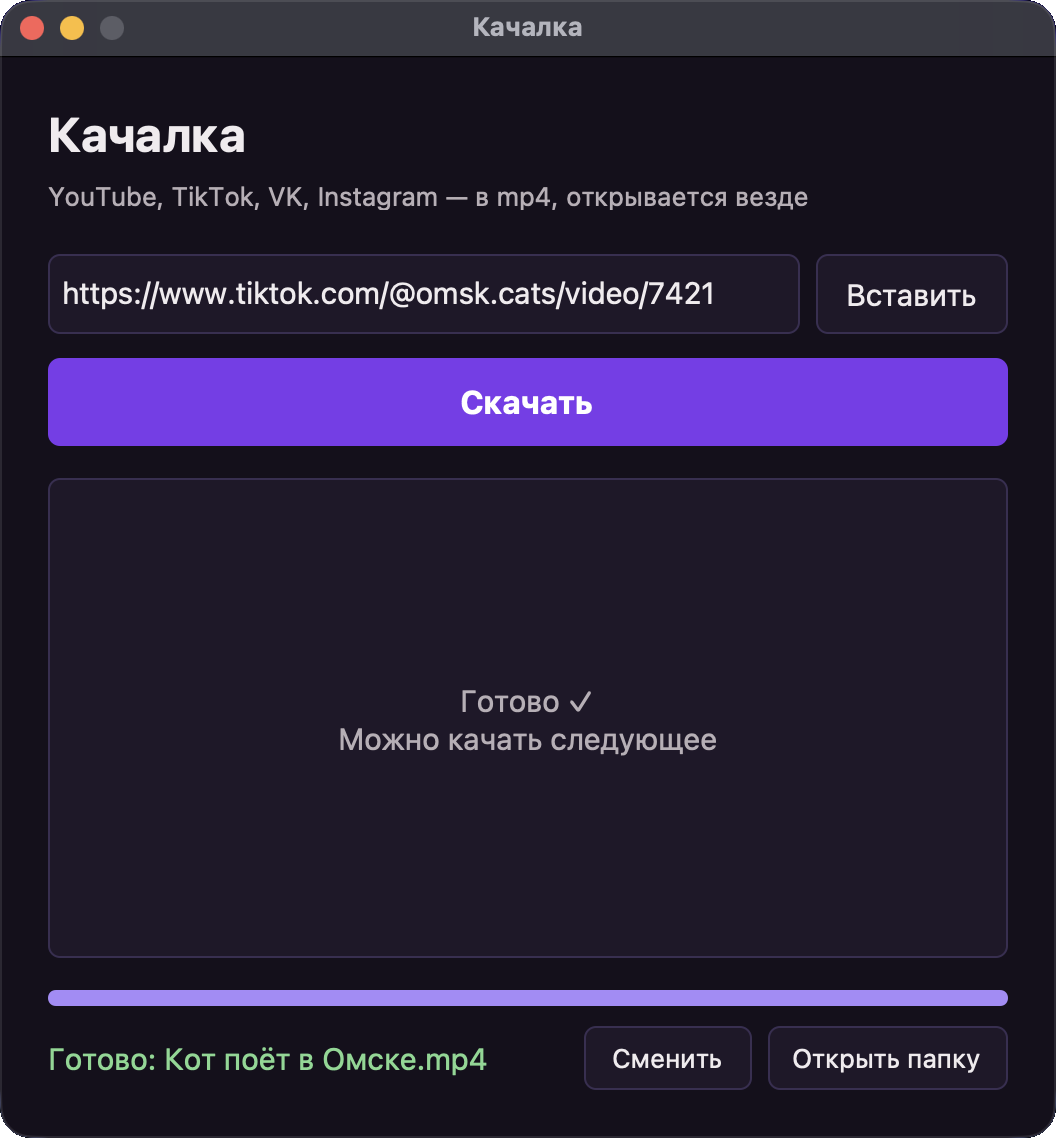
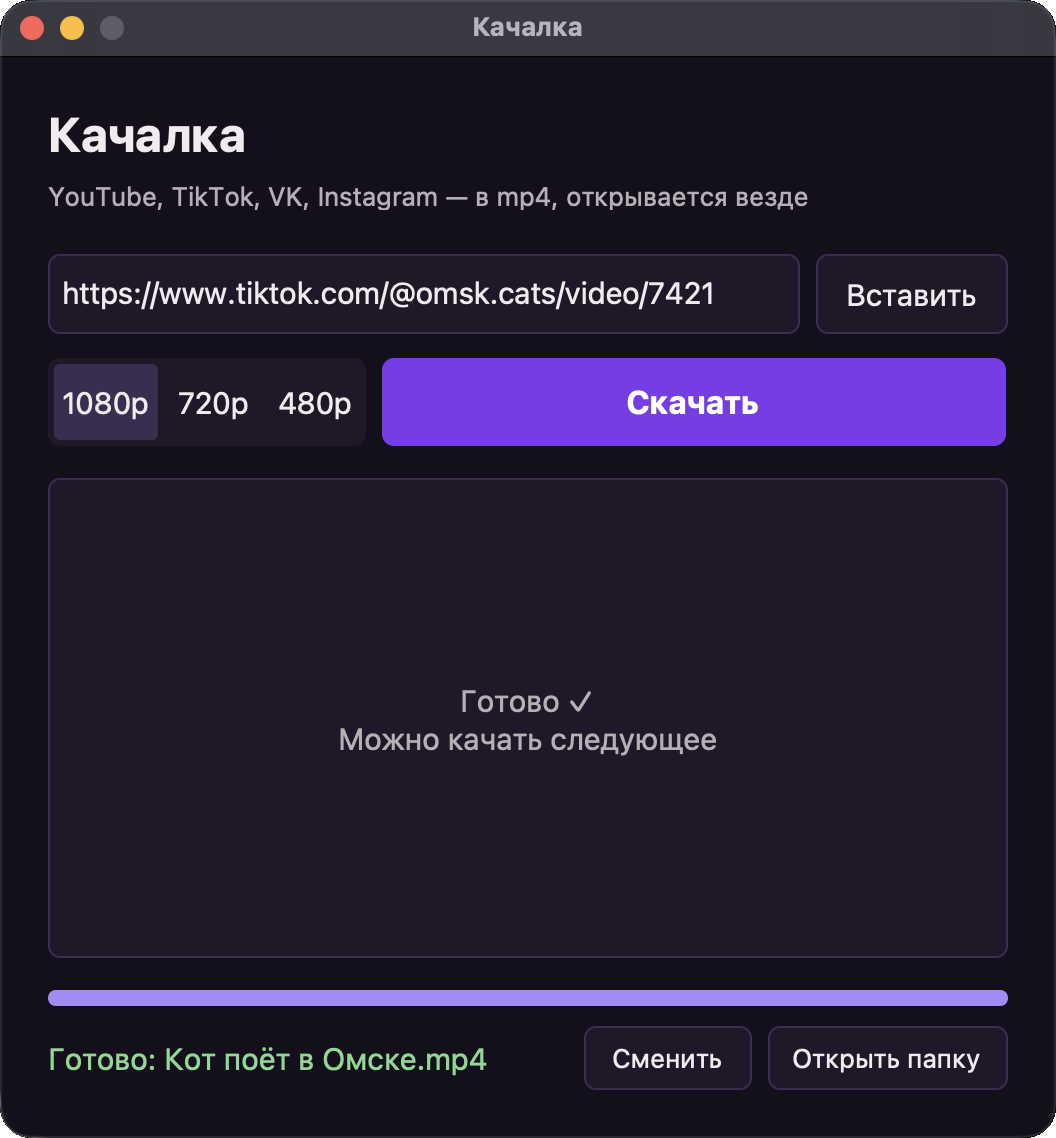
Качалка 1.1: выбор качества и понятные ошибки
Можно выбрать 1080p, 720p или 480p.
Ошибки сети и блокировок теперь объясняются по-русски.

Changed region(s): [[0.0312, 0.3076, 0.375, 0.3998], [0.5938, 0.3383, 0.7188, 0.3691], [0.4375, 0.3383, 0.5625, 0.3691]]

diff --git a/main.py b/main.py
@@ -39,24 +39,28 @@ def desktop_dir():
     return d if d.exists() else Path.home()
 
 
-def load_out_dir():
+QUALITIES = ["1080p", "720p", "480p"]
+
+
+def load_config():
     try:
-        saved = json.loads(CONFIG.read_text("utf-8")).get("out_dir")
-        if saved:
-            return Path(saved)
+        return json.loads(CONFIG.read_text("utf-8"))
+    except Exception:
+        return {}
+
+
+def save_config(**values):
+    cfg = load_config()
+    cfg.update(values)
+    try:
+        CONFIG.write_text(json.dumps(cfg, ensure_ascii=False), "utf-8")
     except Exception:
         pass
-    return desktop_dir() / "Качалка"
 
 
-def save_out_dir(path):
-    try:
-        CONFIG.write_text(json.dumps({"out_dir": str(path)}, ensure_ascii=False), "utf-8")
-    except Exception:
-        pass
-
-
-OUT_DIR = load_out_dir()
+_cfg = load_config()
+OUT_DIR = Path(_cfg["out_dir"]) if _cfg.get("out_dir") else desktop_dir() / "Качалка"
+QUALITY = _cfg.get("quality") if _cfg.get("quality") in QUALITIES else QUALITIES[0]
 
 # в собранной программе без консоли stdout/stderr пустые — yt-dlp на это падает
 if sys.stdout is None:
@@ -108,13 +112,40 @@ def fmt_speed(bps):
     return f"{mb:.1f} МБ/с" if mb >= 1 else f"{bps / 1024:.0f} КБ/с"
 
 
+NET_ERRORS = ("getaddrinfo", "name or service not known", "nodename nor servname",
+              "failed to resolve", "name resolution", "timed out", "connection reset",
+              "connection refused", "network is unreachable", "unable to connect",
+              "connection aborted", "remote end closed", "ssl")
+VPN_HINT = "Включи VPN для всего компьютера (не расширение в браузере) и попробуй ещё раз."
+
+
+def friendly_error(raw):
+    """Переводит ошибку yt-dlp на понятный язык."""
+    m = raw.lower()
+    if any(s in m for s in NET_ERRORS):
+        return "Нет связи с сайтом — похоже, он заблокирован у провайдера. " + VPN_HINT
+    if "sign in to confirm" in m or "not a bot" in m:
+        return "YouTube просит подтвердить, что ты не робот. Смени сервер VPN или попробуй позже."
+    if "unsupported url" in m:
+        return "Эта ссылка не поддерживается. Проверь, что это ссылка на само видео."
+    if "private" in m or "log in" in m or "login" in m or "sign in" in m:
+        return "Видео закрытое или доступно только после входа на сайт."
+    if "unavailable" in m or "not available" in m or "removed" in m:
+        return "Видео недоступно: его удалили или закрыли в твоей стране. " + VPN_HINT
+    if "unexpected response" in m or "unable to extract" in m or "report this issue" in m:
+        return "Сайт не отдал видео — так бывает из-за блокировок. " + VPN_HINT + \
+               " Не помогло — скачай свежую версию Качалки."
+    return raw.replace("ERROR: ", "")[:140]
+
+
 class Downloader(threading.Thread):
     """Качает в фоне и шлёт события в очередь, окно их читает."""
 
-    def __init__(self, url, events):
+    def __init__(self, url, events, quality="1080p"):
         super().__init__(daemon=True)
         self.url = url
         self.events = events
+        self.height = int(quality.rstrip("p"))
         self.weights = {}       # format_id → доля от общего размера
         self.done_share = 0.0   # сколько уже скачано целыми частями
         self.current = None
@@ -144,9 +175,10 @@ class Downloader(threading.Thread):
     def run(self):
         OUT_DIR.mkdir(parents=True, exist_ok=True)
         opts = {
-            # эквивалент: -S "vcodec:h264,res,acodec:m4a" --merge-output-format mp4
+            # эквивалент: -S "vcodec:h264,res:720,acodec:m4a" --merge-output-format mp4
+            # res — по меньшей стороне, так что вертикальные видео тоже считаются верно
             "format": "bv*+ba/b",
-            "format_sort": ["vcodec:h264", "res", "acodec:m4a"],
+            "format_sort": ["vcodec:h264", f"res:{self.height}", "acodec:m4a"],
             "merge_output_format": "mp4",
             "outtmpl": str(OUT_DIR / "%(title).80s.%(ext)s"),
             "noplaylist": True,
@@ -179,8 +211,7 @@ class Downloader(threading.Thread):
                     path = rd.get("filepath") or path
                 self.send("done", path=path)
         except yt_dlp.utils.DownloadError as e:
-            msg = str(e).replace("ERROR: ", "")
-            self.send("error", text=msg[:160])
+            self.send("error", text=friendly_error(str(e)))
         except Exception as e:  # чтобы окно не зависло на любой ошибке
             self.send("error", text=f"{type(e).__name__}: {e}"[:160])
 
@@ -244,12 +275,22 @@ class App(ctk.CTk):
                       font=ctk.CTkFont(size=15),
                       command=self.paste).pack(side="left", padx=(8, 0))
 
-        self.btn = ctk.CTkButton(wrap, text="Скачать", height=44, corner_radius=6,
+        row2 = ctk.CTkFrame(wrap, fg_color=BG)
+        row2.pack(fill="x", pady=(12, 16))
+        self.quality = ctk.CTkSegmentedButton(
+            row2, values=QUALITIES, height=44, width=228, corner_radius=6,
+            fg_color=PANEL, selected_color=BORDER, selected_hover_color=BORDER,
+            unselected_color=PANEL, unselected_hover_color="#2a2236",
+            text_color=TEXT, text_color_disabled=TEXT_2,
+            font=ctk.CTkFont(size=15), command=self.set_quality)
+        self.quality.set(QUALITY)
+        self.quality.pack(side="left")
+        self.btn = ctk.CTkButton(row2, text="Скачать", height=44, corner_radius=6,
                                  fg_color=ACCENT, hover_color=ACCENT_HOVER,
                                  text_color="#ffffff", text_color_disabled="#ffffff",
                                  font=ctk.CTkFont(size=16, weight="bold"),
                                  command=self.start)
-        self.btn.pack(fill="x", pady=(12, 16))
+        self.btn.pack(side="left", fill="x", expand=True, padx=(8, 0))
 
         # область анимации: фиксированного размера, чтобы окно не прыгало
         self.stage = ctk.CTkFrame(wrap, width=GIF_W, height=GIF_H, corner_radius=6,
@@ -352,7 +393,7 @@ class App(ctk.CTk):
         picked = filedialog.askdirectory(initialdir=str(OUT_DIR), title="Куда сохранять видео")
         if picked:
             OUT_DIR = Path(picked)
-            save_out_dir(OUT_DIR)
+            save_config(out_dir=str(OUT_DIR))
             self.last_path = None
             self.set_status(self.folder_hint())
 
@@ -369,6 +410,9 @@ class App(ctk.CTk):
         else:
             subprocess.run(["xdg-open", str(OUT_DIR)])
 
+    def set_quality(self, value):
+        save_config(quality=value)
+
     def start(self):
         if self.worker and self.worker.is_alive():
             return
@@ -379,9 +423,10 @@ class App(ctk.CTk):
         self.target = self.shown = 0.0
         self.bar.set(0)
         self.btn.configure(state="disabled", text="Качаю…")
+        self.quality.configure(state="disabled")
         self.set_status("Начинаю…", TEXT)
         self.show_gif()
-        self.worker = Downloader(url, self.events)
+        self.worker = Downloader(url, self.events, self.quality.get())
         self.worker.start()
 
     def set_status(self, text, color=TEXT_2):
@@ -389,6 +434,7 @@ class App(ctk.CTk):
 
     def finish(self):
         self.btn.configure(state="normal", text="Скачать")
+        self.quality.configure(state="normal")
 
     # ---------- цикл окна: события из потока + плавный прогресс ----------
     def tick(self):
@@ -416,8 +462,8 @@ class App(ctk.CTk):
                 elif kind == "error":
                     self.target = self.shown = 0.0
                     self.bar.set(0)
-                    self.set_status(f"Не получилось: {data['text']}", ERR)
-                    self.hide_gif("Что-то пошло не так.\nПроверь ссылку и попробуй ещё раз")
+                    self.set_status(data["text"], ERR)
+                    self.hide_gif("Не получилось скачать.\nЧто случилось — написано ниже")
                     self.finish()
         except queue.Empty:
             pass
